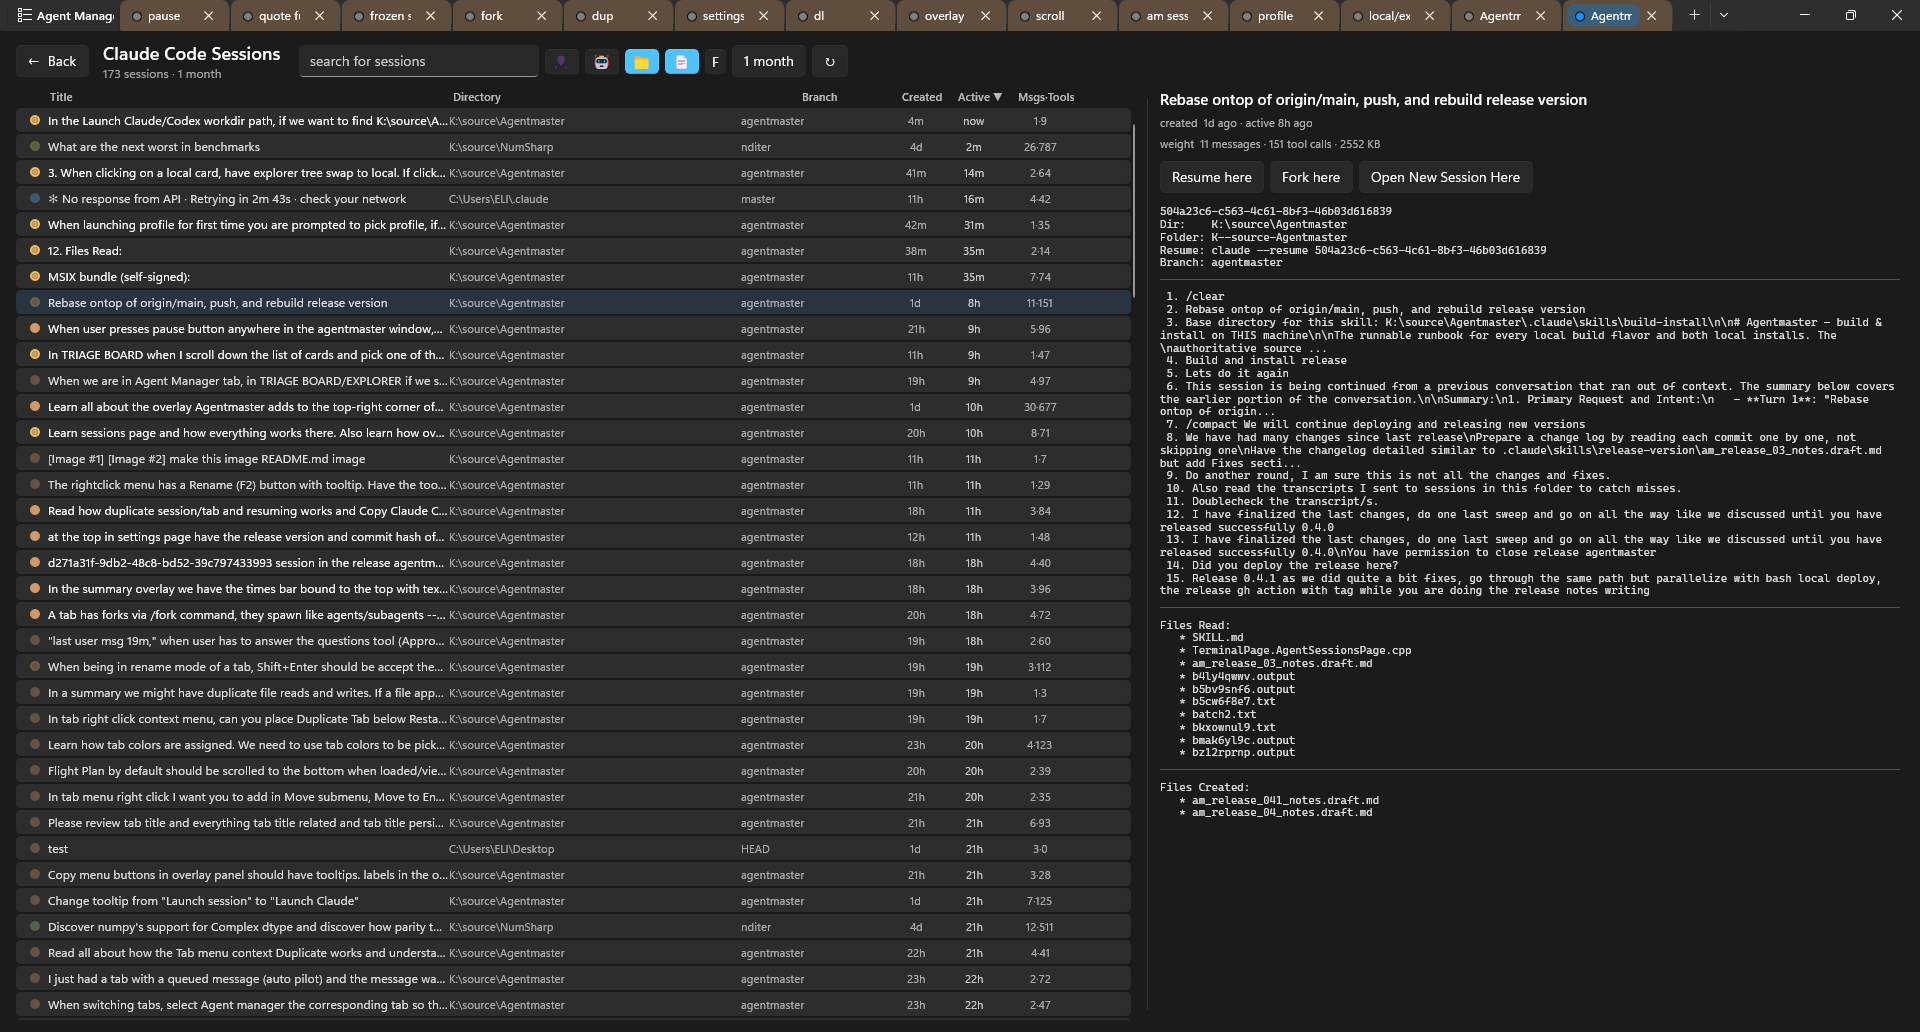
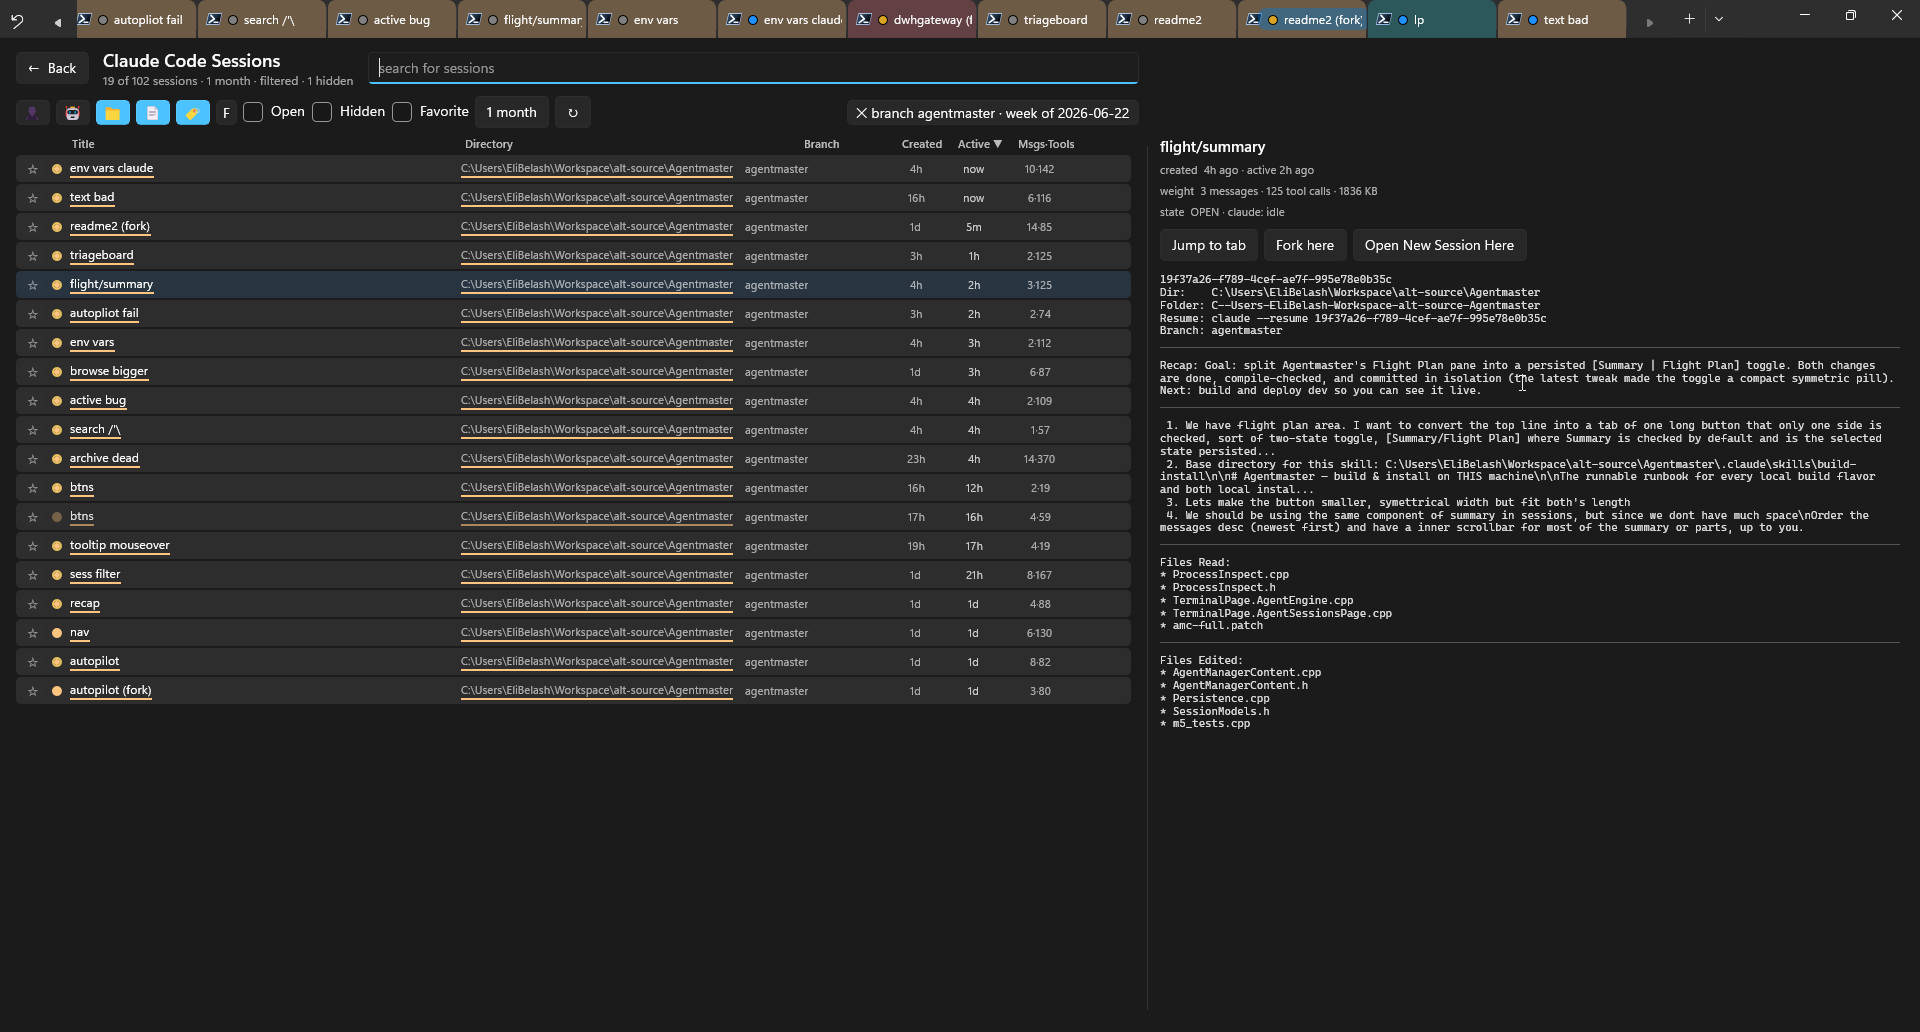
Add /scratch and update README image links
Add /scratch to .gitignore and fix missing EOF newline. Update README image embeds to point to raw.githubusercontent.com URLs so images render reliably, and replace two documentation images (sessions-browser.png and tab-copy-menu.png) with updated binary versions.

diff --git a/README.md b/README.md
@@ -5,7 +5,7 @@ _By developers, for developers - Never lose a session again - feel like Windows 
 
 Each session is a real `claude.exe` on a **ConPTY** connection: a full-fidelity terminal with a shared stdin (you and the orchestrator coexist), output tapped for the UI, and semantic state from **Claude Code hooks** and an **out-of-band observer** — never screen-scraping.
 
-![The Agentmaster Manager tab — the Triage Board (sessions as cards in state columns: Running · Waiting-for-you · Needs-approval · Error · Idle/Done · External), the Explorer Tree (working directories → their sessions), and the Flight Plan (per-session prompt queue + Autopilot)](doc/agentmaster/img/agent-manager.png)
+[![The Agentmaster Manager tab — the Triage Board (sessions as cards in state columns: Running · Waiting-for-you · Needs-approval · Error · Idle/Done · External), the Explorer Tree (working directories → their sessions), and the Flight Plan (per-session prompt queue + Autopilot)](doc/agentmaster/img/agent-manager.png)](https://raw.githubusercontent.com/Nucs/Agentmaster/agentmaster/doc/agentmaster/img/agent-manager.png)
 
 ## Features
 
@@ -20,9 +20,9 @@ Each session is a real `claude.exe` on a **ConPTY** connection: a full-fidelity 
 - **`agentmaster` CLI** — query the fleet from any shell, app up or down: `show` / `list` / `sessions` / `tabs` / `windows` / `external`, plus `--self` and `--json`. Read-only, no live responder.
 - **Persistence & restoration** — reopen a window whole: geometry, resumed Claude *and* Codex sessions, shell tabs at their real cwd, focused tab, and the Manager lens. One engine across all windows, a per-install profile folder, and permanent per-directory tab colors.
 
-![The Agentmaster Sessions browser — every on-disk Claude Code session with a scoped/fuzzy search bar and time-range filter on the left, and a detail pane (metadata, conversation, Resume / Fork / Open-New-Session-Here) on the right](doc/agentmaster/img/sessions-browser.png)
+[![The Agentmaster Sessions browser — every on-disk Claude Code session with a scoped/fuzzy search bar and time-range filter on the left, and a detail pane (metadata, conversation, Resume / Fork / Open-New-Session-Here) on the right](doc/agentmaster/img/sessions-browser.png)](https://raw.githubusercontent.com/Nucs/Agentmaster/agentmaster/doc/agentmaster/img/sessions-browser.png)
 
-![The tab right-click menu's Copy › submenu — copy a session's Session Id, working-dir Path, Branch Name, the real Claude or Codex launch CLI, the full session Summary, or the whole Transcript](doc/agentmaster/img/tab-copy-menu.png)
+[![The tab right-click menu's Copy › submenu — copy a session's Session Id, working-dir Path, Branch Name, the real Claude or Codex launch CLI, the full session Summary, or the whole Transcript](doc/agentmaster/img/tab-copy-menu.png)](https://raw.githubusercontent.com/Nucs/Agentmaster/agentmaster/doc/agentmaster/img/tab-copy-menu.png)
 
 ## Status
 
